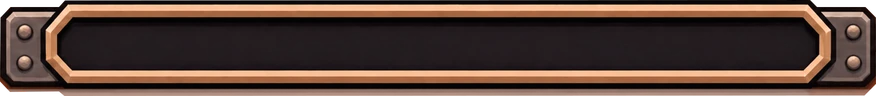
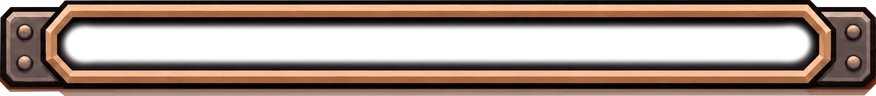
Ящик доп. награды: новый фон шкалы и рамка, прогресс идёт под рамкой
Claude-Session: https://claude.ai/code/session_01XtpZhZabEYUcJEQKQgYpHe

diff --git a/src/app/screens.css b/src/app/screens.css
@@ -7410,7 +7410,7 @@ body.has-full .modal-back:not(.full):not(.page) { top: 0; }
 .bbox-title { position: absolute; left: 8%; right: 8%; top: 6.5%; text-align: center; white-space: nowrap; font-size: 4.4cqi; color: #fff6e4; text-transform: uppercase; -webkit-text-stroke: 0.5cqi #3a1d0c; paint-order: stroke fill; }
 .bbox-text { position: absolute; left: 8%; right: 8%; top: 16.5%; z-index: 2; text-align: center; white-space: nowrap; overflow: hidden; text-overflow: ellipsis; font-size: 2.5cqi; font-weight: 700; line-height: 1.2; color: #fff0d8; text-shadow: 0 1px 2px rgba(0, 0, 0, 0.8); }
 .bbox-progress { position: absolute; border-radius: 0.6cqi; background: linear-gradient(180deg, #ffd65a, #e48a12); box-shadow: inset 0 -0.6cqi 0 rgba(0, 0, 0, 0.18); transition: width 0.5s ease-out; }
-.bbox-dmg { position: absolute; display: flex; align-items: center; font-size: 3cqi; font-weight: 800; color: #fff; text-shadow: 0 1px 2px #000; }
+.bbox-dmg { position: absolute; z-index: 1; display: flex; align-items: center; font-size: 3cqi; font-weight: 800; color: #fff; text-shadow: 0 1px 2px #000; }
 /* the pin assembly: the whole stage, moved along the bar */
 .bbox-pin { position: absolute; inset: 0; pointer-events: none; }
 .bbox-plate-n { position: absolute; display: grid; place-items: center; font-size: 3cqi; font-weight: 900; color: #3a1d0c; }

diff --git a/src/client/screens/boss-box.tsx b/src/client/screens/boss-box.tsx
@@ -108,9 +108,11 @@ export function BossBoxWindow({ bossId, fightId, damage, onClose }: { bossId: st
         <b className="bbox-title display">Дополнительная награда</b>
         {/* the pins' planks stand behind the bar */}
         {stages.map((_, k) => pin(k, false))}
-        {layer("bar")}
+        {layer("barbg")}
         <span className="bbox-progress" style={{ left: `${bl}%`, top: `${bt}%`, width: `${(PIN_AT - bl) * frac + (frac >= 1 ? br - PIN_AT : 0)}%`, height: `${bb - bt}%` }} />
-        <span className="bbox-dmg num" style={{ left: `${bl + 1.5}%`, top: `${bt}%`, height: `${bb - bt}%` }}>{full(Math.min(damage, max))} / {full(max)}</span>
+        <span className="bbox-dmg num" style={{ left: `${bl + 3}%`, top: `${bt}%`, height: `${bb - bt}%` }}>{full(Math.min(damage, max))} / {full(max)}</span>
+        {/* the bar's frame over its progress */}
+        {layer("bar")}
         {stages.map((_, k) => pin(k, true))}
         <span className="bbox-text">
           {next ? <>Нанеси боссу {full(next.damage)} урона в этом бою и победи</> : <>Награды — при победе</>}

diff --git a/src/client/art/boss-box-layout.ts b/src/client/art/boss-box-layout.ts
@@ -5,6 +5,7 @@ export const BOX_WINDOW = [12.28, 39.44, 87.59, 76.89] as const;
 /** each layer: left, top, width, height in % of the stage */
 export const BOX_LAYERS = {
   board: [1.55, 2.91, 96.95, 91.64],
+  barbg: [10.60, 42.78, 78.60, 11.53],
   bar: [6.15, 40.24, 87.65, 17.35],
   plank: [41.70, 25.25, 12.35, 54.50],
   pin: [45.80, 22.07, 3.95, 46.32],
@@ -13,7 +14,7 @@ export const BOX_LAYERS = {
   plate: [42.45, 66.58, 10.70, 10.26],
 } as const;
 /** the bar's inside: left, top, right, bottom in % of the stage */
-export const BAR_INSIDE = [12.00, 43.32, 88.00, 52.86] as const;
+export const BAR_INSIDE = [10.60, 42.78, 89.15, 54.22] as const;
 /** the pin assembly's centre line (x, % of the stage) as drawn */
 export const PIN_X = 47.75;
 export const STAGE_ASPECT = 1.8165;

diff --git a/src/client/asset-manifest.ts b/src/client/asset-manifest.ts
@@ -68,6 +68,7 @@ export const ASSET_FILES: string[] = [
  "/assets/biz/yt-heli.webp",
  "/assets/biz/yt-jacuzzi.webp",
  "/assets/bossbox/bar.webp",
+ "/assets/bossbox/barbg.webp",
  "/assets/bossbox/board.webp",
  "/assets/bossbox/box.webp",
  "/assets/bossbox/clamps.webp",

diff --git a/tools/bossbox/build.py b/tools/bossbox/build.py
@@ -3,7 +3,8 @@
 and src/client/art/boss-box-layout.ts (where each layer sits).
 
   box.png     — the small box by the boss; the knife in its window is cut out: the progress shows through it
-  board.png   — the window's wooden board; bar.png — the progress bar; plank.png, pin.png, clamps.png, nut.png,
+  board.png   — the window's wooden board; barbg.png — the dark strip behind the bar; bar.png — the bar's frame (open inside,
+                the progress runs under it); plank.png, pin.png, clamps.png, nut.png,
                 plate.png — the pin that holds the stage (all of these share one 2000×1101 stage: kept in place)
 
     python3 tools/bossbox/build.py
@@ -36,7 +37,7 @@ lines.append(f"/** the box's window: left, top, right, bottom in % */\nexport co
 
 SW, SH = 2000, 1101
 layers = {}
-for name in ["board", "bar", "plank", "pin", "clamps", "nut", "plate"]:
+for name in ["board", "barbg", "bar", "plank", "pin", "clamps", "nut", "plate"]:
     im = Image.open(os.path.join(HERE, "source", f"{name}.png")).convert("RGBA")
     a, b, c, d = bbox(im)
     part = im.crop((a, b, c, d))
@@ -49,7 +50,7 @@ for k, (l, t, ww, hh) in layers.items():
     lines.append(f"  {k}: [{l:.2f}, {t:.2f}, {ww:.2f}, {hh:.2f}],")
 lines.append("} as const;")
 # the bar's dark inside (where the progress fills) and the pin's centre (it moves along the bar to the stage's damage)
-BAR_IN = (240, 477, 1760, 582)
+BAR_IN = (212, 471, 1783, 597)  # the dark strip behind the bar's frame (barbg.png): the progress fills it, under the frame
 lines.append(f"/** the bar's inside: left, top, right, bottom in % of the stage */\nexport const BAR_INSIDE = [{BAR_IN[0] / SW * 100:.2f}, {BAR_IN[1] / SH * 100:.2f}, {BAR_IN[2] / SW * 100:.2f}, {BAR_IN[3] / SH * 100:.2f}] as const;")
 lines.append(f"/** the pin assembly's centre line (x, % of the stage) as drawn */\nexport const PIN_X = {955 / SW * 100:.2f};")
 lines.append(f"export const STAGE_ASPECT = {SW / SH:.4f};")
